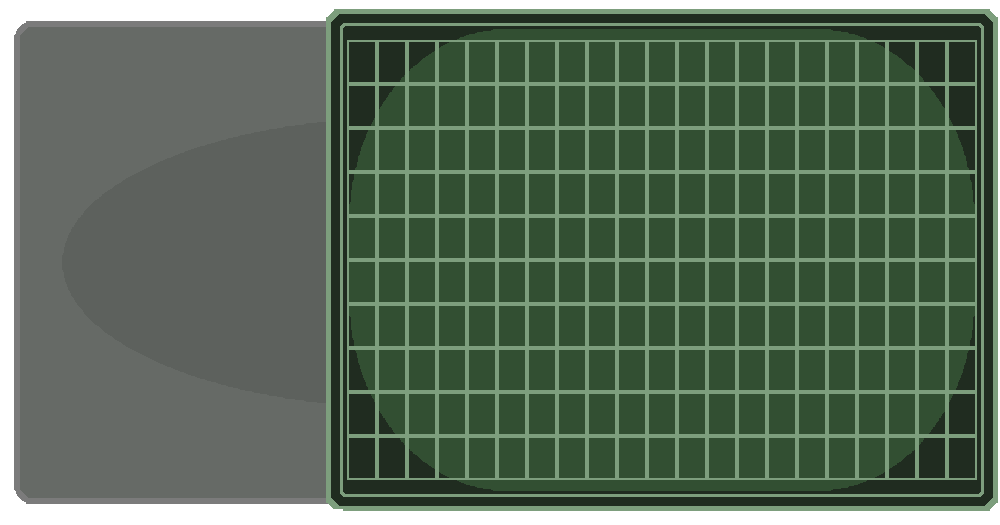
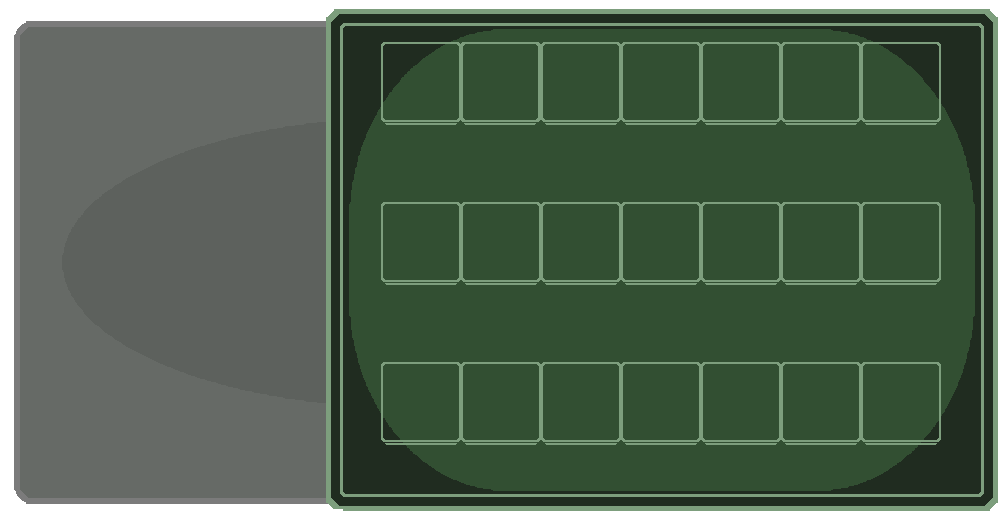
floor and row navigation

Changed region(s): [[0.341, 0.061, 0.992, 0.9143]]

diff --git a/main/window.py b/main/window.py
@@ -20,18 +20,35 @@ parqueadero = Parqueadero()
 tab1 = []
 tab2 = []
 
+#Surfaces que se van a usar
 titleImg = pygame.image.load('core/assets/title.png').convert_alpha()
 backdropImg = pygame.image.load('core/assets/menuBackdrop.png').convert_alpha()
 startBtnImg = pygame.image.load('core/assets/startButtonN.png').convert_alpha()
 startBtnHov = pygame.image.load('core/assets/startButtonP.png').convert_alpha()
 menuBackground = pygame.image.load('core/assets/menuDrawing.png').convert_alpha()
 parkgridImg = pygame.image.load('core/assets/windowref.png').convert_alpha()
-
 carLotImg = pygame.image.load('core/assets/carlot.png').convert_alpha()
+bikeLotImg = pygame.image.load('core/assets/bikelot.png').convert_alpha()
+discLotImg = pygame.image.load('core/assets/disclot.png').convert_alpha()
+
+rightArrImg = pygame.image.load('core/assets/arrow.png').convert_alpha()
+leftArrImg = pygame.transform.flip(rightArrImg, True, False)
+rightArrPressedImg = pygame.image.load('core/assets/pressedarrow.png').convert_alpha()
+leftArrPressedImg = pygame.transform.flip(rightArrPressedImg, True, False)
+
+rightSkinnyImg = pygame.image.load('core/assets/skinnyarrow.png').convert_alpha()
+leftSkinnyImg = pygame.transform.flip(rightSkinnyImg, True, False)
+rightSkinnyPressed = pygame.image.load('core/assets/skinnypressed.png').convert_alpha()
+leftSkinnyPressed = pygame.transform.flip(rightSkinnyPressed, True, False)
         
 
 #instance buttons
 startBtn = Button(SCREEN_WIDTH/2, (SCREEN_HEIGHT/2)-75, startBtnImg, startBtnHov, screen)
+floorUpBtn = Button(190+36, 424+33, rightArrImg, rightArrPressedImg, screen)
+floorDownBtn = Button(98+36, 424+33, leftArrImg, leftArrPressedImg, screen)
+rowUpBtn = Button(704+58, 461+13, rightSkinnyImg, rightSkinnyPressed, screen)
+rowDownBtn =Button(497+58, 461+13, leftSkinnyImg, leftSkinnyPressed, screen)
+
 
 #instance images
 menuBackdrop = Image(SCREEN_WIDTH/2, -50, backdropImg, screen)
@@ -47,27 +64,48 @@ tab2.append(parkgrid)
 #dependiendo de eso, sacar un PixelArray del carLotImg, usar PixelArray.replace() para
 #reemplazar el color default de magenta con el que viene la imagen al color correspondiente
 #luego, blittear el PixelArray a screen.
-def renderLotButtons(floor):
+
+#la fila a mostrar se toma como parametro i, junto con el floor
+def renderLotButtons(floor, i):
     
     floor = parqueadero.getFloor(floor)
-    
-    for i in range(0, 10):
-        for j in range(0, 21):
-                        
-            slot = floor.getSlotByName(chr(65+i)+str(j+1))
-            pArray = pygame.PixelArray(carLotImg)
-            if not slot.getVehicle(): #If there *is* a vehicle in the slot, paint it green
-                pArray.replace(pygame.Color(255, 0, 161), colorAvailable)
-            else: #else, paint it red
-                pArray.replace(pygame.Color(255, 0, 161), colorUnavailable)
-            
-            currentLot = pArray.make_surface()
-            screen.blit(currentLot, (j*30+347, i*44+27))
+    xPixel = -1
+    yOffset = 0
+    for j in range(0, 21):
+                    
+        slot = floor.getSlotByName(chr(65+i)+str(j+1))
+        
+        #Decide image
+        match slot.getKind():
+            case "car":
+                pArray = pygame.PixelArray(carLotImg)                    
+            case "motorcycle":
+                pArray = pygame.PixelArray(bikeLotImg)
+            case "reduced_mobility":
+                pArray = pygame.PixelArray(discLotImg)
+                
+        
+        #Decide color
+        if not slot.getVehicle(): #If there *is* a vehicle in the slot, paint it green
+            pArray.replace(pygame.Color(255, 0, 161), colorAvailable)
+        else: #else, paint it red
+            pArray.replace(pygame.Color(255, 0, 161), colorUnavailable)
+        
+        yOffset = yOffset + 1 if xPixel == 6 else yOffset
+        xPixel = xPixel + 1 if xPixel < 6 else 0
+        
+        #comienzas en 381, 42
+        #una fila mide 560 pixeles
+        #a 381 le sumas la fraccion de la longitud en la que estas (1/7, 2/7, 3/7...)
+        currentLot = pArray.make_surface()
+        screen.blit(currentLot, (381+(xPixel/7)*560, 30+(160*yOffset)))
 
 
 #game loop
 run = True
-tab = 0;
+tab = 0
+floor = 0
+row = 0
 while run:
     
     screen.fill((202, 228, 241))
@@ -87,10 +125,22 @@ while run:
             #Images
             for img in tab2:
                 img.render()
+                
+            if floorUpBtn.draw() and floor<2:
+                floor += 1
             
+            if floorDownBtn.draw() and floor>0:   
+                floor -= 1
             
-            floor = 1
-            renderLotButtons(floor)
+            if rowUpBtn.draw() and row<9:
+                row += 1
+            
+            if rowDownBtn.draw() and row>0:
+                row -= 1
+            
+            print("floor: ",floor," row: ",row)
+            
+            renderLotButtons(floor, row)
     
     #Events
     for event in pygame.event.get():

diff --git a/main/core/parqueadero/Parqueadero.py b/main/core/parqueadero/Parqueadero.py
@@ -8,7 +8,7 @@ class Parqueadero():
     def __init__(self):
         self.floors = LinkedList()
         self.vehicles = LinkedList()
-        for i in range(1, 3):
+        for i in range(0, 3):
             self.floors.append(Piso("F"+str(i), 10, 21))
         
     def getFloor(self, index) -> Piso:
